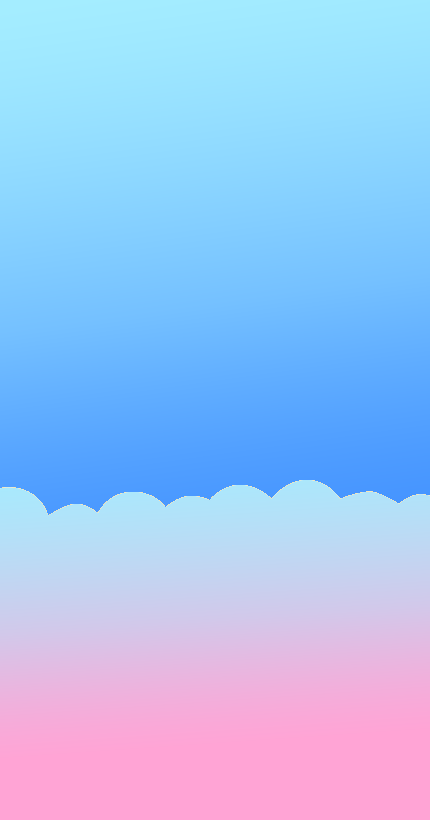
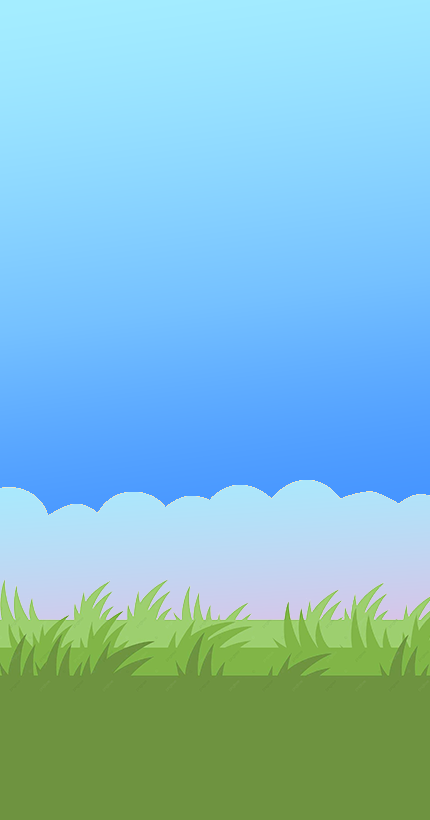
animation doodle

Changed region(s): [[0.0, 0.7012, 1.0, 1.0]]

diff --git a/components/Footer.tsx b/components/Footer.tsx
@@ -25,8 +25,8 @@ export default function Footer() {
   const score = _.last(rounds)?.score || 0;
   const best = _.maxBy(rounds, "score")?.score || 0;
   return (
-    <footer className="w-full h-[184px]  bg-[#e8007d] relative rounded-b-lg">
-      <div className="bg-[#ffa4d5] border-y-4 relative border-[#e8007d] h-8">
+    <footer className="w-full h-[184px]  bg-[#37bf7d] relative rounded-b-lg">
+      <div className="bg-[#37bf7d] border-y-4 relative border-[#00ba66] h-8">
         <motion.div
           style={{
             backgroundImage: `linear-gradient(
